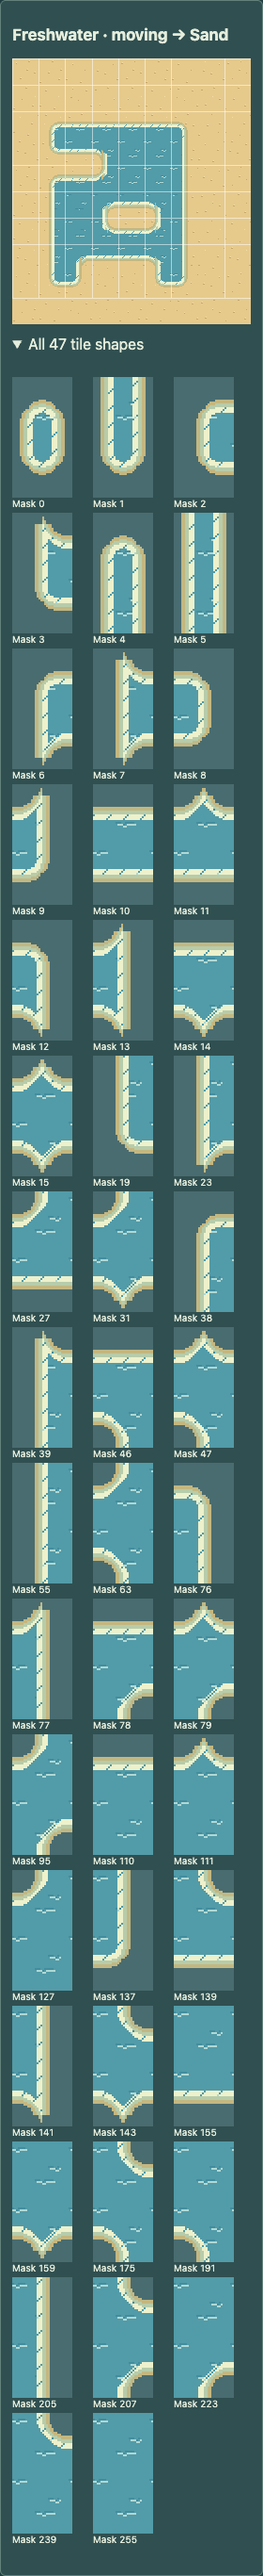
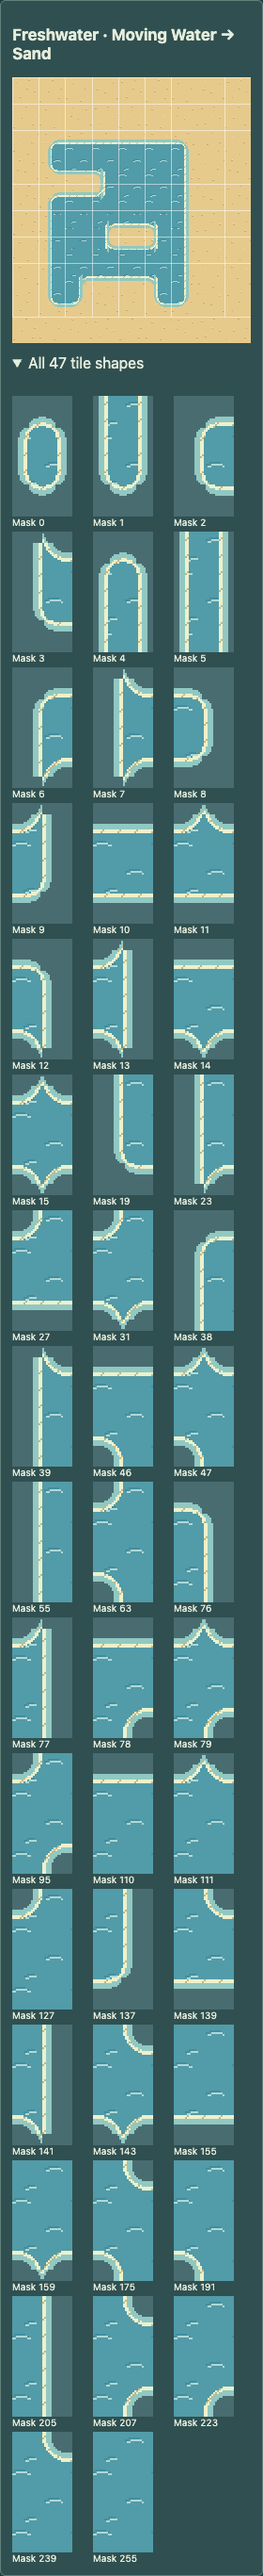
Record verified complete coastal review publication

diff --git a/docs/PROJECT_PLAN.md b/docs/PROJECT_PLAN.md
@@ -2,9 +2,7 @@
 
 ## M1.WA7 — Complete water, sand and grass verification
 
-**Implemented and tested; push/publication in progress.** Fix registered inward corners and suppress internal bank/foam tails in assembled shores. Complete review provides74 ordered combinations ×47 shapes (3,478 transitions), rotation/mirror controls, tile grid and animation pause. Native checks and202 clean unit tests pass; 21 isolated browser scenarios pass (14 playable coast,7 complete review); evidence in `docs/reviews/M1-WA7`. Original collision/save/contact/sky/reflection rules remain. Unrelated character working edits excluded; their appearance width test fails in dirty checkout. New art remains review-only. Exact next action: push tested task source, publish matching build, record receipt, then user verifies the complete hosted set.
-
-
+**Implemented, tested, pushed and published; awaiting user visual verification.** Fix registered inward corners and suppress internal bank/foam tails in assembled shores. Complete review provides74 ordered combinations ×47 shapes (3,478 transitions), rotation/mirror controls, tile grid and animation pause. Native checks and202 clean unit tests pass; 21 isolated browser scenarios pass (14 playable coast,7 complete review); evidence in `docs/reviews/M1-WA7`. Original collision/save/contact/sky/reflection rules remain. Unrelated character working edits excluded; their appearance width test fails in dirty checkout. New art remains review-only. Source be027bd22f579ed442b64ebbdeeff677a0f6703b pushed with matching origin/main SHA verified; 1,166 runtime files match the tested release and2,143 build files match its archive. Sites version42 / deployment appgdep_6acaf5fbd04481919c18a14fd4e16c2b succeeded2026-10-10 7:35:52PM Pacific, with owner-private audience and saves preserved. [Complete phone review](https://critz-tycoon.freemarketwildlife.chatgpt.site/art-review/coast-complete.html) · [Playable demo](https://critz-tycoon.freemarketwildlife.chatgpt.site/art-review/coast.html). Physical Safari remains unverified. Unrelated character edits remain. Exact next action: user verifies all categories, all47 shapes, four rotations and mirrors in the hosted complete-set review; no implementation/push/publication step remains. Receipt commit is documentation only; hosted build is unchanged by it.
 
 
 ## M1.WA6 — Beaches, raised shores and curved water depths

diff --git a/docs/PROJECT_STATUS.md b/docs/PROJECT_STATUS.md
@@ -2,9 +2,7 @@
 
 ## M1.WA7 — Complete water, sand and grass verification
 
-**Implemented and tested; push/publication in progress.** Fix registered inward corners and suppress internal bank/foam tails in assembled shores. Complete review provides74 ordered combinations ×47 shapes (3,478 transitions), rotation/mirror controls, tile grid and animation pause. Native checks and202 clean unit tests pass; 21 isolated browser scenarios pass (14 playable coast,7 complete review); evidence in `docs/reviews/M1-WA7`. Original collision/save/contact/sky/reflection rules remain. Unrelated character working edits excluded; their appearance width test fails in dirty checkout. New art remains review-only. Exact next action: push tested task source, publish matching build, record receipt, then user verifies the complete hosted set.
-
-
+**Implemented, tested, pushed and published; awaiting user visual verification.** Fix registered inward corners and suppress internal bank/foam tails in assembled shores. Complete review provides74 ordered combinations ×47 shapes (3,478 transitions), rotation/mirror controls, tile grid and animation pause. Native checks and202 clean unit tests pass; 21 isolated browser scenarios pass (14 playable coast,7 complete review); evidence in `docs/reviews/M1-WA7`. Original collision/save/contact/sky/reflection rules remain. Unrelated character working edits excluded; their appearance width test fails in dirty checkout. New art remains review-only. Source be027bd22f579ed442b64ebbdeeff677a0f6703b pushed with matching origin/main SHA verified; 1,166 runtime files match the tested release and2,143 build files match its archive. Sites version42 / deployment appgdep_6acaf5fbd04481919c18a14fd4e16c2b succeeded2026-10-10 7:35:52PM Pacific, with owner-private audience and saves preserved. [Complete phone review](https://critz-tycoon.freemarketwildlife.chatgpt.site/art-review/coast-complete.html) · [Playable demo](https://critz-tycoon.freemarketwildlife.chatgpt.site/art-review/coast.html). Physical Safari remains unverified. Unrelated character edits remain. Exact next action: user verifies all categories, all47 shapes, four rotations and mirrors in the hosted complete-set review; no implementation/push/publication step remains. Receipt commit is documentation only; hosted build is unchanged by it.
 
 
 ## M1.WA6 — Beaches, raised shores and curved water depths

diff --git a/docs/reviews/M1-WA7/README.md b/docs/reviews/M1-WA7/README.md
@@ -8,4 +8,4 @@ Registered inward returns now occupy the connected row overlap, joining the16px 
 
 Checks:202 clean unit tests pass, including all four inward returns and assembled bank/wash-tail rejection. Native alpha coverage and all47 animation wraps pass (3.2s). Complete-review browser verifies all74 pairs, four rotations/mirrors, all47 shore shapes, water/water gallery, phone width, isolated empty storage and no runtime errors. Playable coastal regressions cover movement, reflection, wildlife, weather, shadows, clock/sleep and galleries. Calm screenshot comparison masks the independently advancing clock, avoiding a false failure at minute rollover. Physical Safari remains unverified. The shared dirty checkout's unrelated appearance test fails16-vs24 width; those unfinished character changes are excluded from the clean tested release.
 
-Publication receipt is recorded after successful deployment. Next action: user reviews each category, orientation and complete47-shape bank in the hosted demo. No visual acceptance is inferred.
+Sites version42 / deployment appgdep_6acaf5fbd04481919c18a14fd4e16c2b succeeded2026-10-10 7:35:52PM Pacific. Tested source be027bd22f579ed442b64ebbdeeff677a0f6703b is pushed to origin/main and Sites. All1,166 runtime files and2,143 archive build files match; hosting metadata is the only packaging addition. Owner-private audience preserved. Final receipt is documentation only. Next action: user reviews each category, orientation and complete47-shape bank in the hosted demo. No visual acceptance is inferred.
